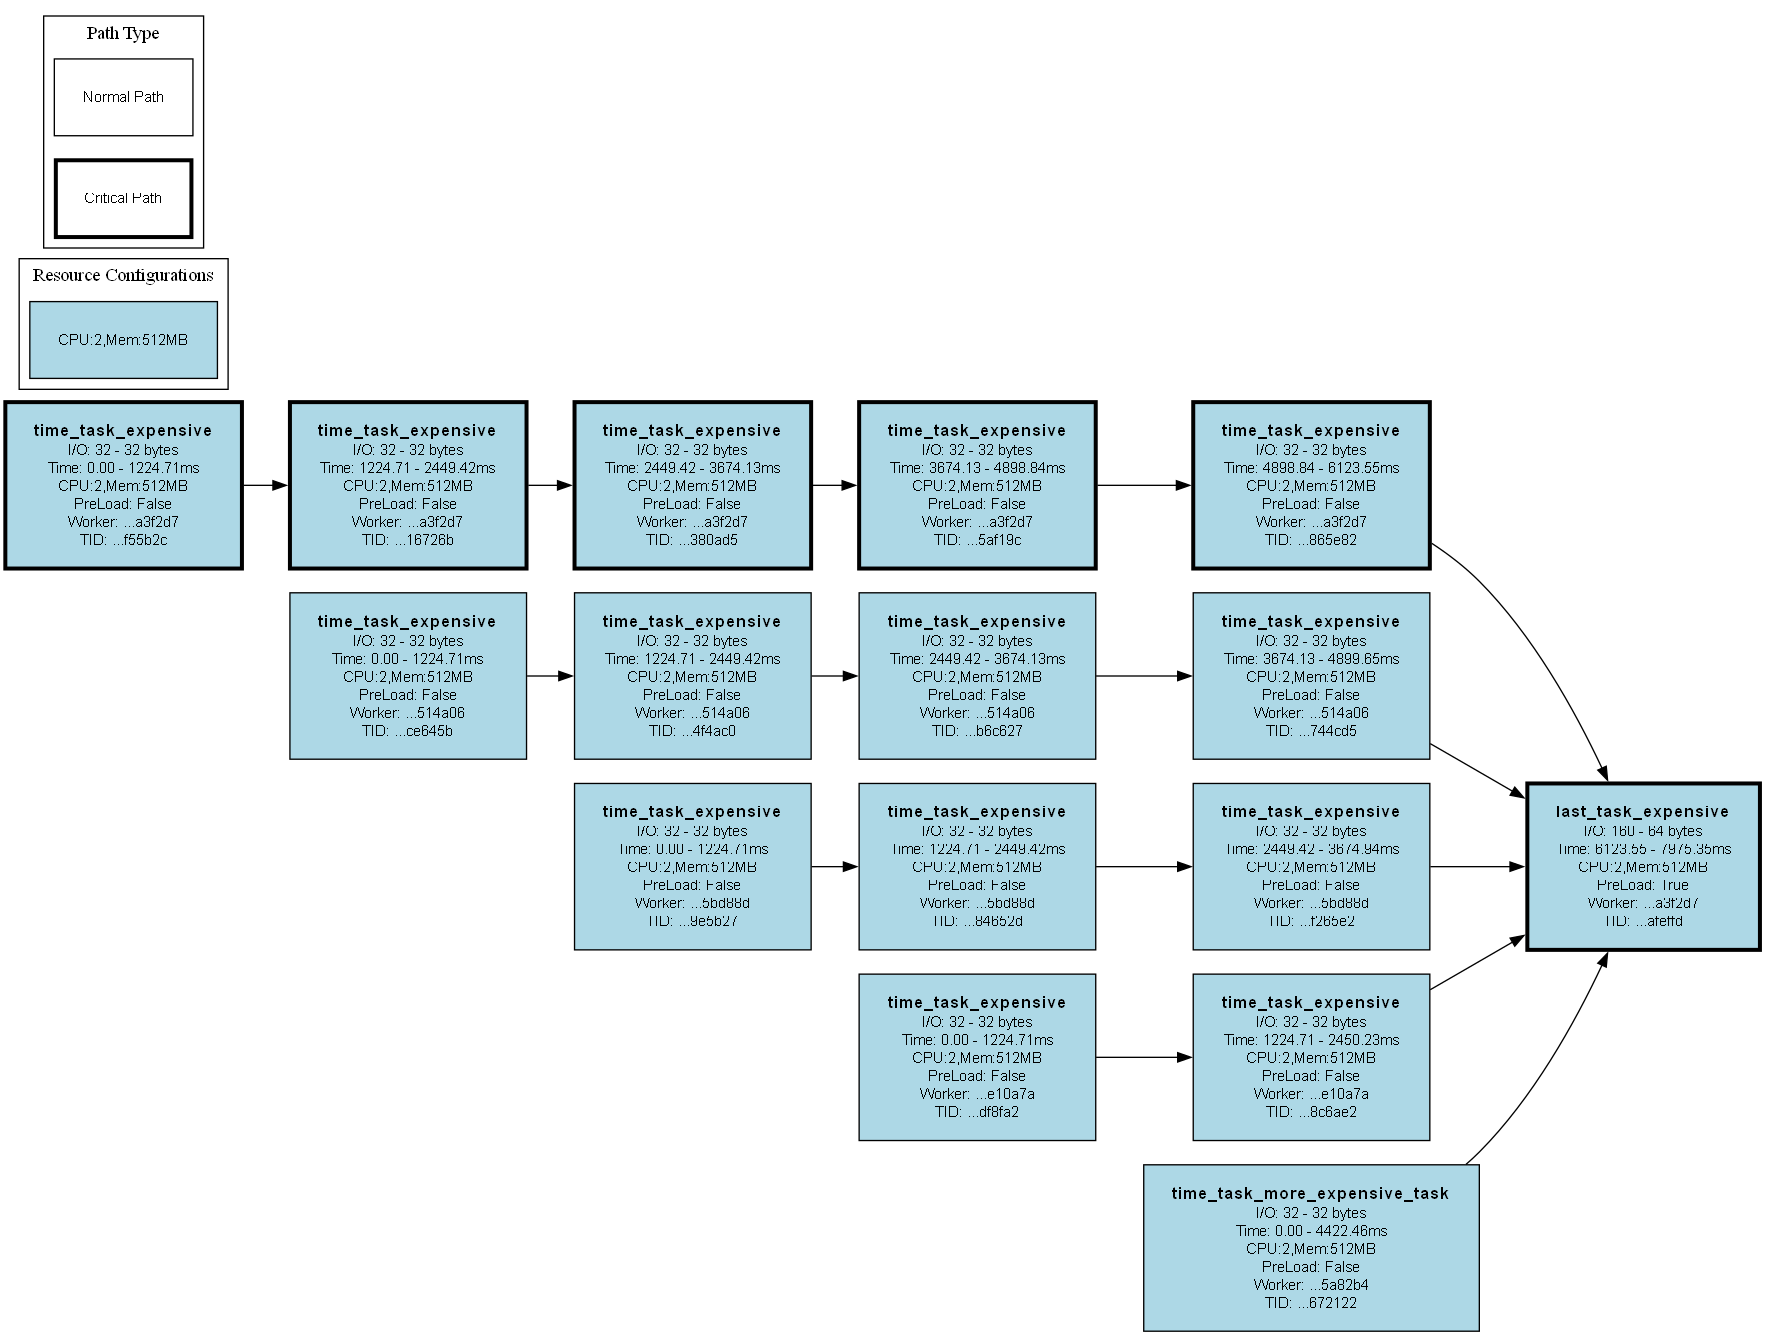
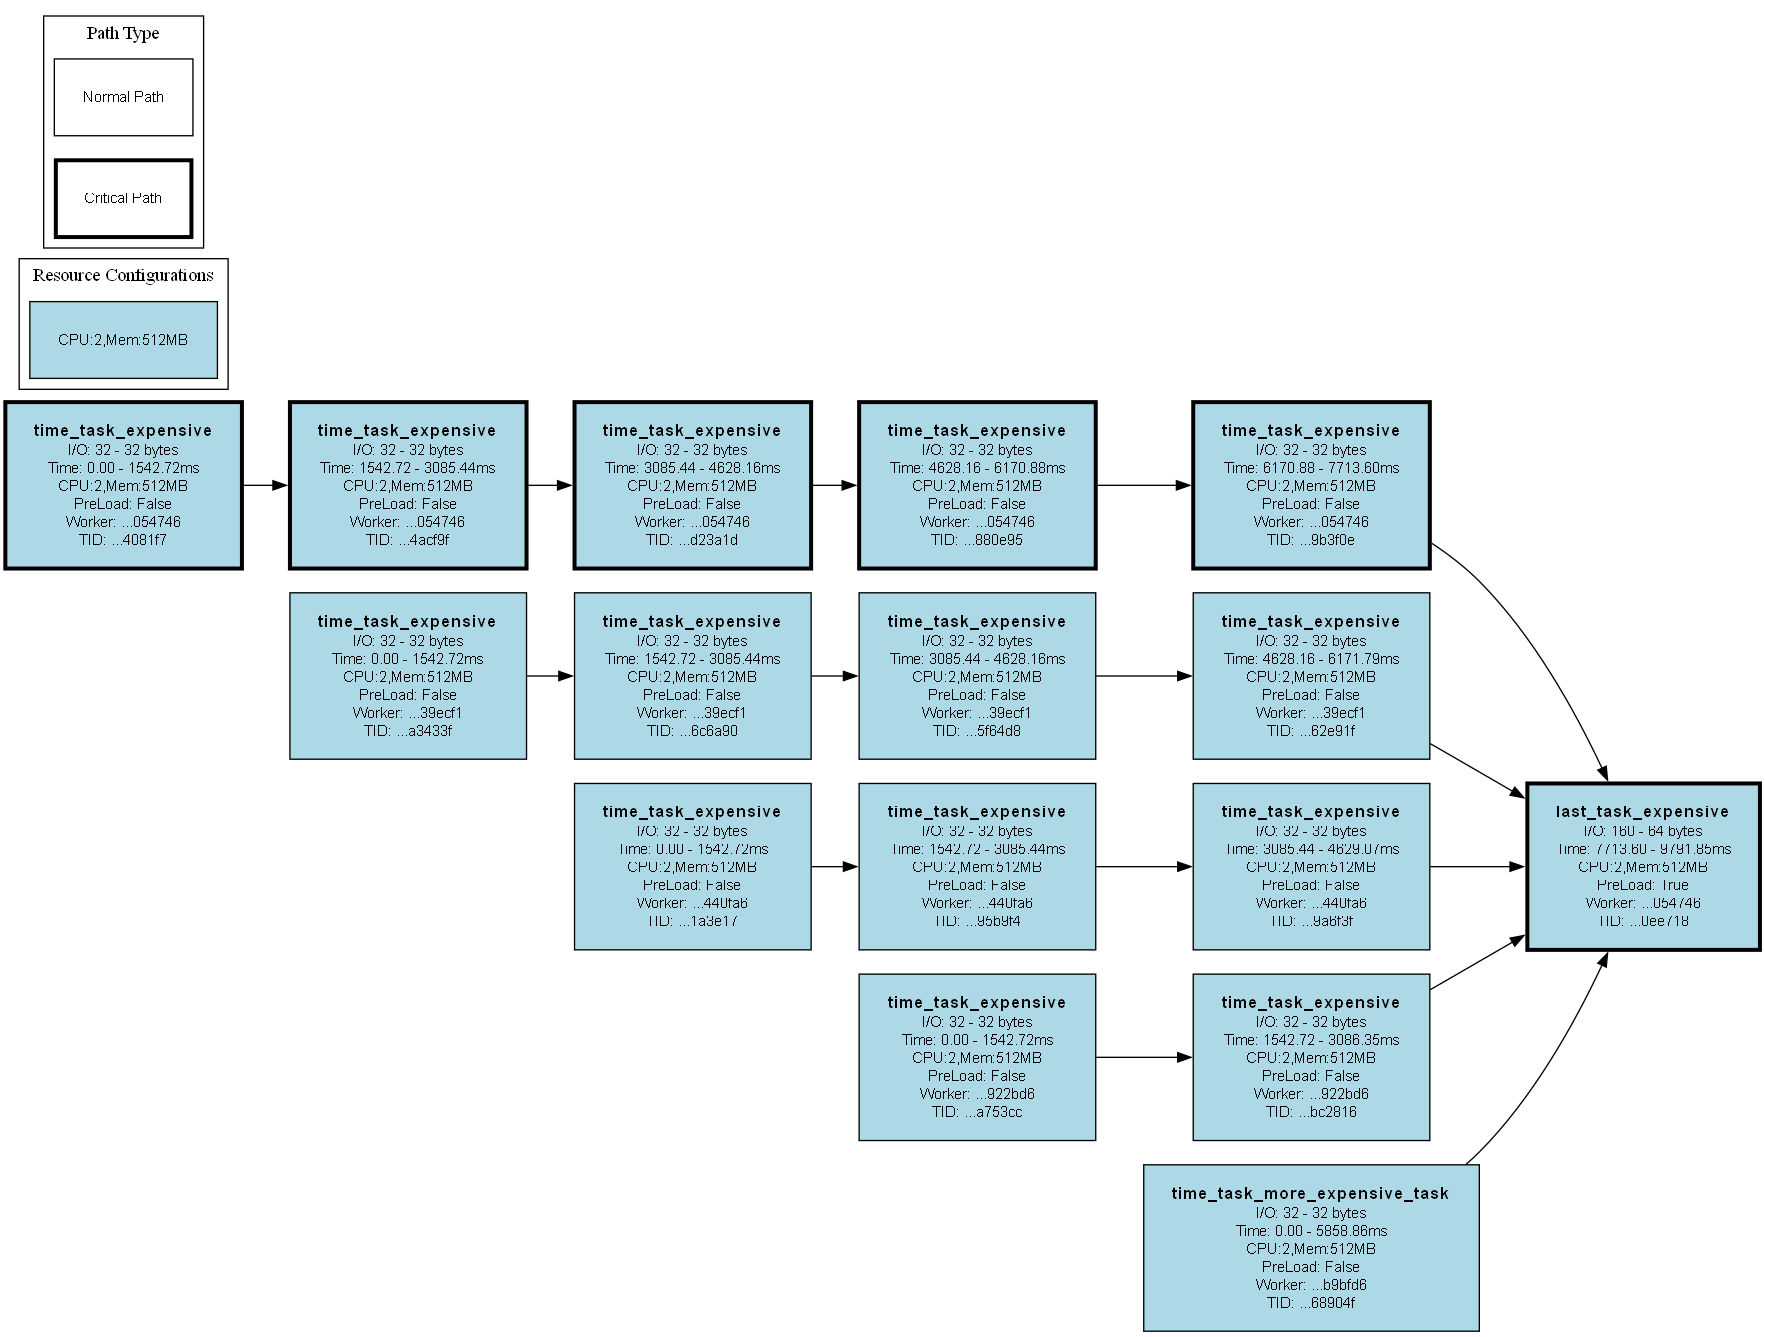
now showing total download time instead of total task-path download time

diff --git a/_metadata_analysis/workflow_dashboard.py b/_metadata_analysis/workflow_dashboard.py
@@ -274,7 +274,7 @@ def main():
                     continue
                     
                 # Calculate actual metrics
-                actual_download = sum(task.metrics.input_metrics.tp_total_time_waiting_for_inputs_ms / 1000 for task in instance.tasks if task.metrics.input_metrics.tp_total_time_waiting_for_inputs_ms is not None)  # in seconds
+                actual_total_download = sum([sum([input_metric.time_ms / 1000 for input_metric in task.metrics.input_metrics.input_download_metrics.values() if input_metric.time_ms is not None]) for task in instance.tasks]) 
                 actual_execution = sum(task.metrics.tp_execution_time_ms / 1000 for task in instance.tasks)  # in seconds
                 actual_upload = sum(task.metrics.output_metrics.tp_time_ms / 1000 for task in instance.tasks if task.metrics.output_metrics.tp_time_ms is not None)  # in seconds
                 actual_invocation = sum(task.metrics.total_invocation_time_ms / 1000 for task in instance.tasks if task.metrics.total_invocation_time_ms is not None)  # in seconds
@@ -300,11 +300,10 @@ def main():
                     actual_makespan = (max_end - min_start) / 1000  # Convert to seconds
                 
                 # Get predicted metrics if available
-                predicted_download = predicted_execution = predicted_upload = predicted_makespan = 0
+                predicted_total_download = predicted_execution = predicted_upload = predicted_makespan = 0
                 predicted_input_size = predicted_output_size = 0
                 if instance.plan and instance.plan.nodes_info:
-                    predicted_download = sum(info.total_download_time / 1000 for info in instance.plan.nodes_info.values())  # in seconds
-                    print("predicted_download", predicted_download)
+                    predicted_total_download = sum(info.total_download_time / 1000 for info in instance.plan.nodes_info.values())  # in seconds
                     predicted_execution = sum(info.exec_time / 1000 for info in instance.plan.nodes_info.values())  # in seconds
                     predicted_upload = sum(info.upload_time / 1000 for info in instance.plan.nodes_info.values())  # in seconds
                     predicted_input_size = sum(info.input_size for info in instance.plan.nodes_info.values() if hasattr(info, 'input_size'))  # in bytes
@@ -369,7 +368,7 @@ def main():
                                         sample_counts.for_execution_time if sample_counts else None),
                     'Total Execution Time': format_metric(actual_execution, predicted_execution, 
                                                 sample_counts.for_execution_time if sample_counts else None),
-                    'Total Download Time': format_metric(actual_download, predicted_download, 
+                    'Total Download Time': format_metric(actual_total_download, predicted_total_download, 
                                             sample_counts.for_download_speed if sample_counts else None),
                     'Total Upload Time': format_metric(actual_upload, predicted_upload, 
                                             sample_counts.for_upload_speed if sample_counts else None),
@@ -426,12 +425,12 @@ def main():
                         'Master DAG ID',
                         'Makespan', 
                         'Total Execution Time', 
-                        'Total Download Time', 
+                        'Total Download Time',
                         'Total Upload Time',
                         'Total Input Size',
                         'Total Output Size',
                         'Total Task Invocation Time',
-                        'Total Dependency Counter Update Time'
+                        'Total Dependency Counter Update Time',
                     ]
                 )
                 
@@ -645,7 +644,7 @@ def main():
                     continue
                 
                 # Calculate actual vs predicted metrics
-                actual_download = sum(task.metrics.input_metrics.tp_total_time_waiting_for_inputs_ms / 1000 for task in instance.tasks if task.metrics.input_metrics.tp_total_time_waiting_for_inputs_ms is not None)  # in seconds
+                actual_tp_download = sum(task.metrics.input_metrics.tp_total_time_waiting_for_inputs_ms / 1000 for task in instance.tasks if task.metrics.input_metrics.tp_total_time_waiting_for_inputs_ms is not None)  # in seconds
                 actual_execution = sum(task.metrics.tp_execution_time_ms / 1000 for task in instance.tasks)  # in seconds
                 actual_upload = sum(task.metrics.output_metrics.tp_time_ms / 1000 for task in instance.tasks if task.metrics.output_metrics.tp_time_ms is not None)  # in seconds
                 actual_output_size = sum(task.metrics.output_metrics.serialized_size_bytes for task in instance.tasks if hasattr(task.metrics, 'output_metrics') and task.metrics.output_metrics)  # in bytes
@@ -669,7 +668,7 @@ def main():
                 
                 if instance.plan and instance.plan.nodes_info:
                     # Calculate total metrics for non-makespan related stats
-                    predicted_download = sum(info.total_download_time / 1000 for info in instance.plan.nodes_info.values())  # in seconds
+                    predicted_total_download = sum(info.total_download_time / 1000 for info in instance.plan.nodes_info.values())  # in seconds
                     predicted_execution = sum(info.exec_time / 1000 for info in instance.plan.nodes_info.values())  # in seconds
                     predicted_upload = sum(info.upload_time / 1000 for info in instance.plan.nodes_info.values())  # in seconds
                     predicted_output_size = sum(info.output_size for info in instance.plan.nodes_info.values())  # in bytes
@@ -699,14 +698,14 @@ def main():
                     predicted_makespan = max(earliest_finish.values()) if earliest_finish else 0.0
                     
                     # Calculate prediction errors
-                    download_error = calculate_prediction_error(actual_download, predicted_download)
+                    download_error = calculate_prediction_error(actual_tp_download, predicted_total_download)
                     execution_error = calculate_prediction_error(actual_execution, predicted_execution)
                     upload_error = calculate_prediction_error(actual_upload, predicted_upload)
                     output_size_error = calculate_prediction_error(actual_output_size, predicted_output_size)
                     makespan_error = calculate_prediction_error(actual_makespan, predicted_makespan)
                     
                     # Time differences (actual - predicted)
-                    download_diff = actual_download - predicted_download
+                    download_diff = actual_tp_download - predicted_total_download
                     execution_diff = actual_execution - predicted_execution
                     upload_diff = actual_upload - predicted_upload
                     makespan_diff = actual_makespan - predicted_makespan

diff --git a/TODO.md b/TODO.md
@@ -14,12 +14,10 @@
     - [??] Show the impact of PRE-LOAD vs no PRE-LOAD
 
 - Add to instance comparison table:
-    [NOT_PLANNED_BUT_RECORDED] total time spent updating dependency counters
-    [NOT_PLANNED_BUT_RECORDED] total time spent invoking tasks
-    [DONE] tp execution time (total tp execution time)
-    tp download time (total tp download time)
-    [DONE?] tp upload time (total tp upload time)
     [NOT_PLANNED_BUT_RECORDED] total time spent downloading dag from storage
+
+- Create a simple dag with only 1 branch and 1 task type that increases input/output size (4 tasks)
+    test on that only
 
 - Strange => predicted input size and output size are always the same check `abstract_dag_planner` logic, 
     - Is it using the prediction functions?
